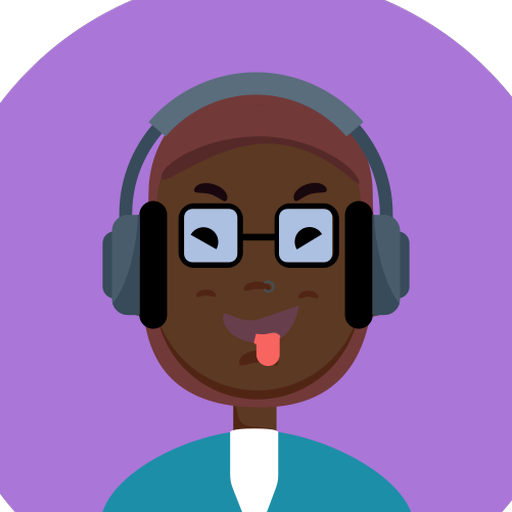
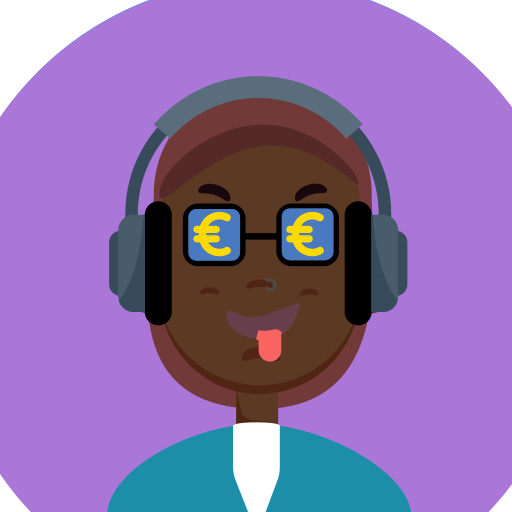
v0.5.4 demo: portretten van A.R.T.H.U.R., Arthur 2.0 en een nieuwe Sophie
Claude-Session: https://claude.ai/code/session_01NEvvhHiHvhoQiSX2zT3JR3

diff --git a/overrides.js b/overrides.js
@@ -16,6 +16,8 @@ const ART={
  'person:megan-cookiesworth':'art/person-megan-cookiesworth.png',
  'person:sophie-royaltee':'art/person-sophie-royaltee.png',
  'person:steve-appleby':'art/person-steve-appleby.png',
+ 'person:a-r-t-h-u-r-promptier':'art/person-a-r-t-h-u-r-promptier.png',
+ 'person:a-r-t-h-u-r-2-0-promptier':'art/person-a-r-t-h-u-r-2-0-promptier.png',
  'sector:AGRO':'art/sector-AGRO.png',
  'sector:AUTO':'art/sector-AUTO.png',
  'sector:BANK':'art/sector-BANK.png',

diff --git a/data.js b/data.js
@@ -1,5 +1,5 @@
 // Build version: shown on the title screen. Raised with every build ("zet het online").
-const GAME_VERSION='v0.5.3 demo';
+const GAME_VERSION='v0.5.4 demo';
 // Swipe & Lobby — all game content in one place.
 // The game (index.html) and the control room (regiekamer.html) both read this file.
 // Effects are always [Economy, Climate, Trust, Corporate Power].

diff --git a/CHANGELOG.md b/CHANGELOG.md
@@ -1,5 +1,13 @@
 # Swipe & Lobby — changelog
 
+## v0.5.4 demo (8 oktober 2026)
+
+**Nieuw**
+- Nieuwe portretten: A.R.T.H.U.R. Promptier en Arthur 2.0 (met snor).
+
+**Verbeterd**
+- Nieuwe versie van het portret van Sophie Royaltée.
+
 ## v0.5.3 demo (8 oktober 2026)
 
 **Opgelost**
